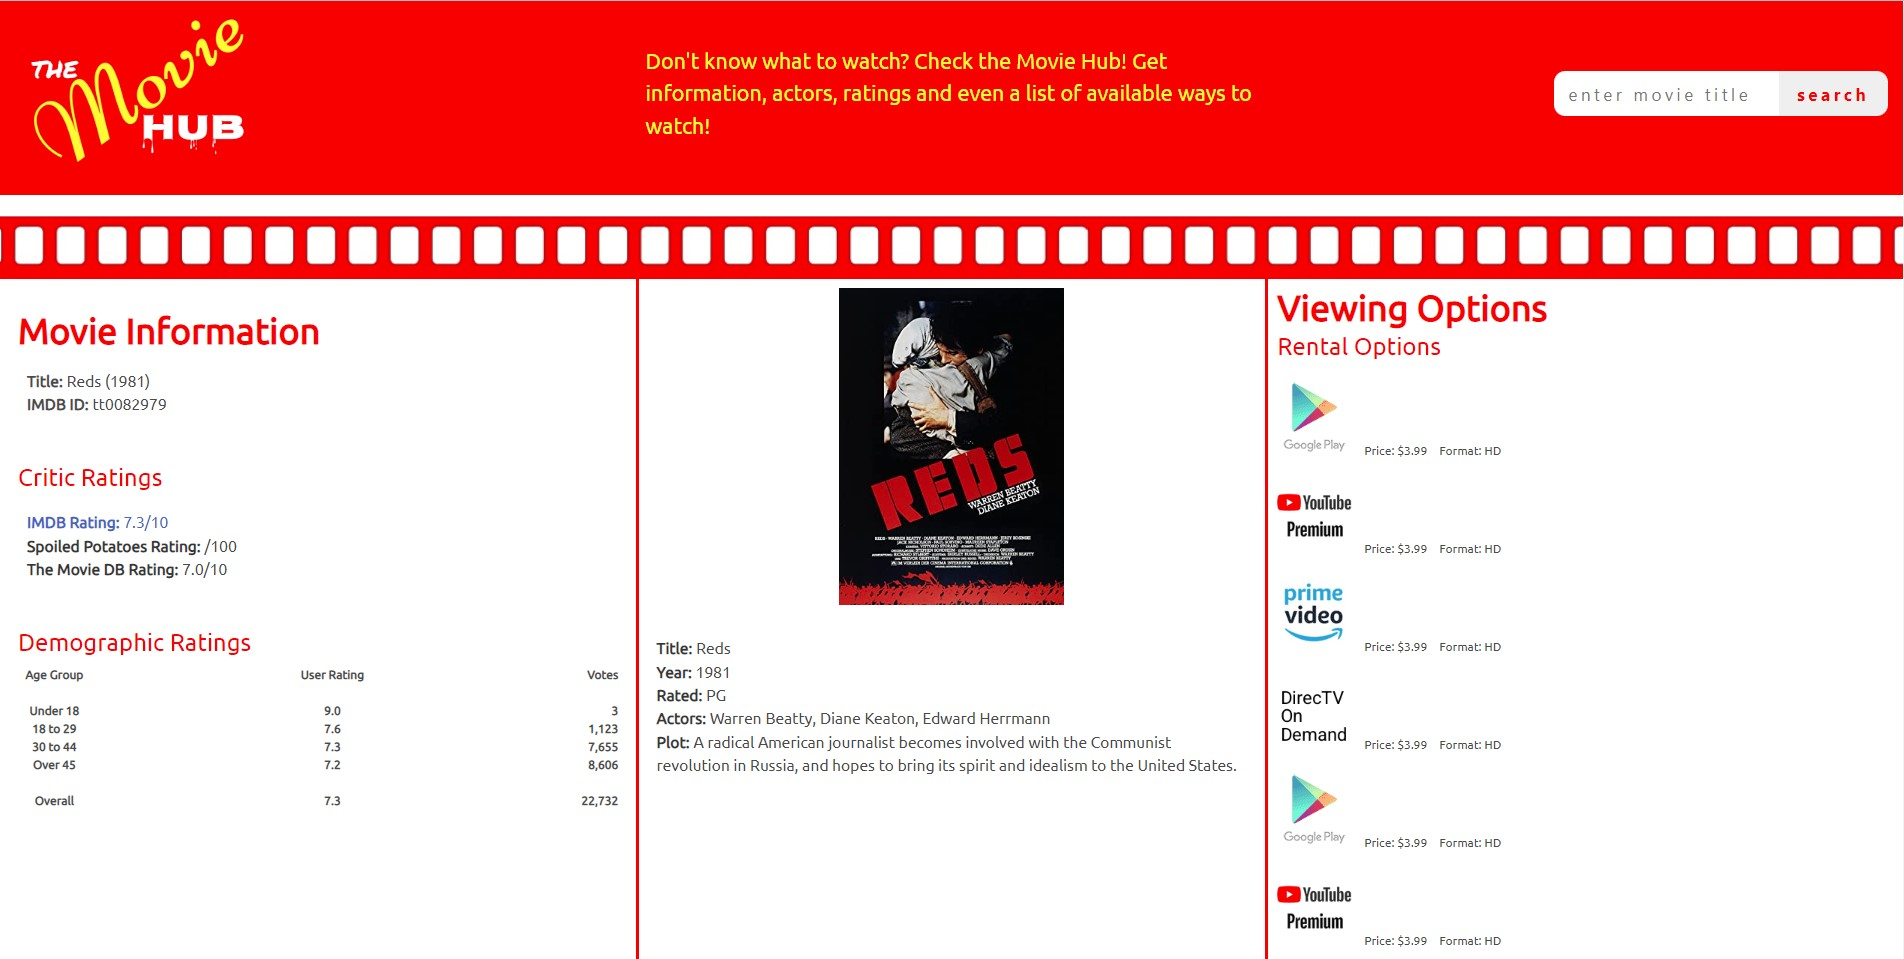
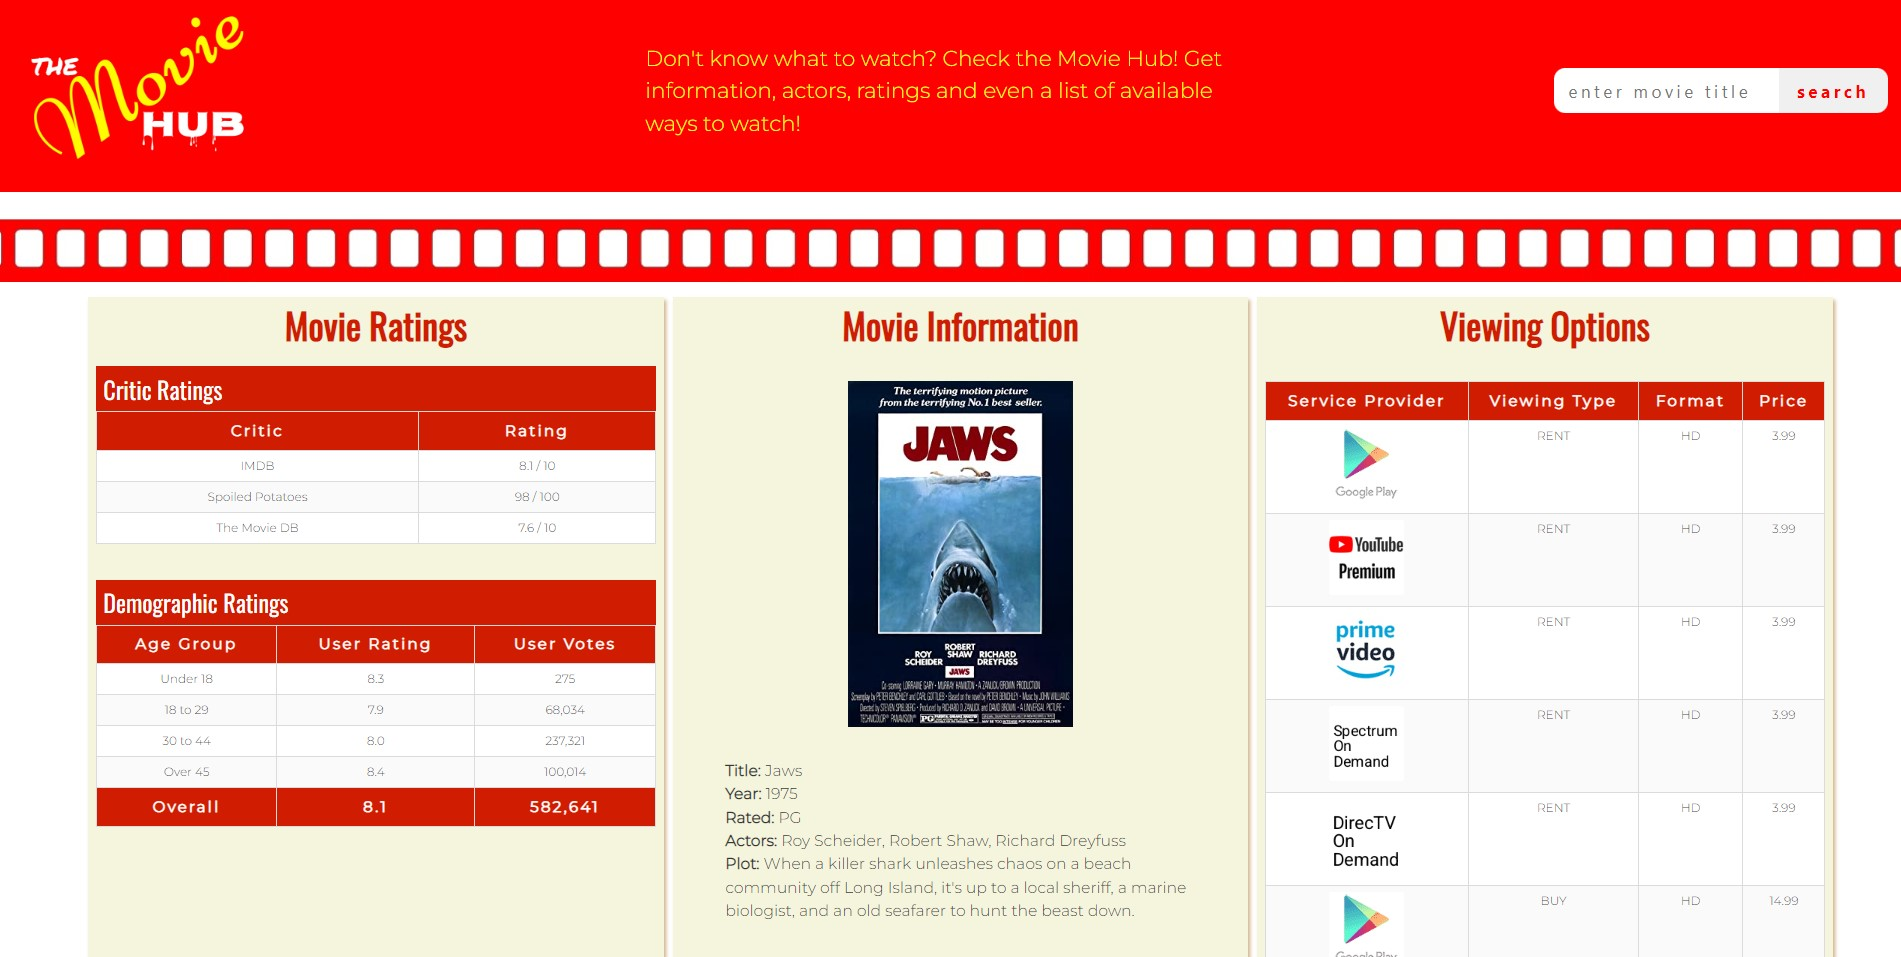
added colored background on data areas, changed fonts to Oswald/Montserrat

diff --git a/index.html b/index.html
@@ -9,6 +9,9 @@
     <link rel="preconnect" href="https://fonts.googleapis.com">
     <link rel="preconnect" href="https://fonts.gstatic.com" crossorigin>
     <link href="https://fonts.googleapis.com/css2?family=Ubuntu&display=swap" rel="stylesheet">
+    <link rel="preconnect" href="https://fonts.googleapis.com">
+    <link rel="preconnect" href="https://fonts.gstatic.com" crossorigin>
+    <link href="https://fonts.googleapis.com/css2?family=Montserrat:wght@300&family=Oswald&display=swap" rel="stylesheet">
 
     <!-- CSS Stylesheets -->
     <link rel="stylesheet" href="https://cdn.jsdelivr.net/npm/bulma@0.9.4/css/bulma-rtl.min.css">
@@ -41,20 +44,20 @@
 
             <div class="film-reel"></div>
             
-            <div class="columns main-content is-flex column mx-auto">
+            <div class="columns main-content is-11 column mx-auto">
 
                 <div class="column left-content is-4">
 
                     <!-- displays movie title, IMDBID title and three critic ratings -->
-                    <div id="ratings-hardcoded-doesnt-need-id" class="movie-ratings title is-2 mb-6">Movie Ratings</div>
+                    <div id="ratings-hardcoded-doesnt-need-id" class="movie-ratings title is-1 mb-6">Movie Ratings</div>
                 
-                    <div id="hardcoded-doesnt-need-id" class="subtitle is-4 mb-0">Critic Ratings</div>
+                    <div id="hardcoded-doesnt-need-id" class="subtitle is-3 mb-0">Critic Ratings</div>
                     <div>
                         <table class="table is-striped is-bordered is-fullwidth has-text-centered">
                             <thead>
                                 <tr>
                                     <th class="has-text-centered has-text-white is-size-5">Critic</th>
-                                    <th class="has-text-centered has-text-white is-size-5">Critic Rating</th>
+                                    <th class="has-text-centered has-text-white is-size-5">Rating</th>
                                     <!-- <th class="has-text-centered">User Votes</th> -->
                                 </tr>
                             </thead>
@@ -89,7 +92,7 @@
                     </div>
                     <!-- was set to user-ratings to bold text in "table" -->
                     <!-- bottom left-content box that displays demographics ratings -->
-                    <div id="demo-ratings-header" class="subtitle is-4 pt-6 mb-0">Demographic Ratings</div>
+                    <div id="demo-ratings-header" class="subtitle is-3 mt-6 mb-0">Demographic Ratings</div>
                     <div id="demo-ratings" class="demo-ratings is-flex is-justify-content-space-between has-text-centered">
                         
                         <div id="age-group">
@@ -152,21 +155,21 @@
                 </div>
             
             
-                <div class="column center-content is-4">
+                <div class="column center-content is-4 mx-3">
                     <!-- <div class="movie-info"></div> this isn't used, check first before deleting-->
-                    <div class="title is-2 mb-6">Movie Information</div>
+                    <div class="title is-1 mb-6">Movie Information</div>
 
                     <!-- displays poster and movie info underneath poster -->
                     <div id="display-card">
                         <div id="poster" class="has-text-centered"></div>
-                        <div id="movie-info" class="movie-info"></div>
+                        <div id="movie-info" class="movie-info  px-6"></div>
                     </div>
                 </div>
             
         
                 <div class="column right-content is-4">
                     <!-- <p class="title is-1"></p> -->
-                    <div id="view-options-heading-hardcoded-doesnt-need-id" class="title is-2 mb-6">Viewing Options</div>
+                    <div id="view-options-heading-hardcoded-doesnt-need-id" class="title is-1 mb-6">Viewing Options</div>
                     
                     <!-- <p id="rent-options-heading" class="subtitle is-3"></p> -->
                     <!-- <div id="xrent-viewing-options"> -->
@@ -183,8 +186,9 @@
 
                     <!-- </div> -->
                     
-
+                    <div class="table-scroll">
                     <table class="table is-striped is-bordered is-fullwidth has-text-centered">
+                        
                         <thead>
                             <tr>
                                 <th class="has-text-centered has-text-white is-size-5">Service Provider</th>
@@ -197,32 +201,9 @@
                         <tbody id="viewing-options">
 
                         </tbody>
-                        
-                        <!-- <div class="title is-3">Renting Options - Joe</div>
-                        <tbody id="rent-viewing-options">
-                        
-                        </tbody>
-
-                        <div class="title is-3">Buying Options - Joe</div>
-                        <tbody id="buy-viewing-options">
-
-                        </tbody>
-
-                        <div class="title is-3">Subscription Options - Joe</div>
-                        <tbody id="sub-viewing-options">
-
-                        </tbody> -->
-
-                        <!-- <tfoot>
-                            <tr>
-                                <th class="has-text-centered is-size-5">Overall</th>
-                                <th id="overall-user-rating" class="has-text-centered is-size-5"></th>
-                                <th id="overall-user-votes" class="has-text-centered is-size-5"></th>
-                            </tr>
-                        </tfoot> -->
 
                     </table>
-
+                    </div>
                     
                     
                     

diff --git a/css/style.css b/css/style.css
@@ -1,7 +1,11 @@
+:root {
+    --heading-text: Oswald;
+    --content-text: Montserrat;
+}
+
 * {
     padding: 0;
     margin: 0;
-    font-family: Ubuntu;
 }
 
 /* .main-content {
@@ -9,7 +13,7 @@
 } */
 
 body {
-    background-color: ;
+    font-family: var(--content-text);
 }
 
 
@@ -20,7 +24,7 @@ header {
 
 header p {
     font-size: 1.8rem;
-    color: yellow;
+    color: #FFFB35;
 }
 
 header img {
@@ -86,8 +90,19 @@ footer {
 } */
 
 .left-content, .center-content {
-    border-right: 5px solid #D01C00;
+    xborder-right: 5px solid #D01C00;
 }
+
+.left-content, .center-content, .right-content {
+    xborder: 2px solid navy;
+    padding: 10px;
+    background-color: beige;
+    box-shadow: 3px 4px 5px tan;
+}
+
+/* .center-content {
+    margin: 0 10px;
+} */
 
  /* .demo-ratings {
     padding: 10px;
@@ -95,13 +110,28 @@ footer {
     width: 100%;
 } */
 
-.title, .subtitle, td {
+.title, .subtitle, xtd, .xmovie-info {
     color: #D01C00;
+}
+
+.title, .subtitle {
+    font-family: var(--heading-text);
+}
+
+.title {
+    text-align: center;
+}
+
+.subtitle {
+    background-color: #D01C00;
+    color: white;
+    padding: 10px;
+    margin: 0;
 }
 
 th  {
     background-color: #D01C00;
-    letter-spacing: .5rem;
+    letter-spacing: .2rem;
 }
 
 /* .center-content {
@@ -109,6 +139,10 @@ th  {
     color: white;
 } */
 
+.table-scroll {
+    overflow-x: auto;
+    /* overflow-y: auto; */
+}
 
 
 
@@ -123,7 +157,7 @@ th  {
 
 
 @media screen and (max-width: 1024px) {
-    
+
 
     /* why does input-elements affect all of the other layouts */
     .input-elements {
@@ -155,17 +189,6 @@ th  {
 
 
 
-
-
-
-
-
-
-
-
-
-
-
 @media screen and (max-width: 820px) {
     
     .main-content {
@@ -183,32 +206,11 @@ th  {
     }
     
     .left-content, .center-content {
-        border-right: none;
-        border-bottom: 5px solid red;
+        xborder-right: none;
+        xborder-bottom: 5px solid red;
     }
 
-    /* header nav form input {
-        padding: 10px 15px;
-        border-radius: 15px;
-        border: none;
-        margin-right: 10px;
-    }
-    
-    header nav form button {
-        padding: 10px 25px;
-        border-radius: 15px;
-        border: none;
-        font-weight: bold;
-        color: red;
-        margin: 10px 10px 0 0;
-    } */
 }
-
-
-
-
-
-
 
 
 
@@ -220,9 +222,7 @@ th  {
     }
 
     header {
-        /* justify-content: space-between; */
         flex-direction: column;
-        /* fix this */
         flex-wrap: wrap;
     }
 
@@ -236,24 +236,22 @@ th  {
         letter-spacing: 1px;
     }
 
-    .left-content, .center-content {
-        border-right: none;
-        border-bottom: 5px solid red;
+    .left-content {
+        margin: 20px 0;
     }
 
-    /* header nav form input {
-        padding: 15px 20px;
-        border-radius: 15px 0 0 15px;
-        border: none;
+    .center-content {
+        /* margin: 20px 0; */
+        order: -1;
     }
-    
-    header nav form button {
-        padding: 15px 25px;
-        border-radius: 0 15px 15px 0;
-        border: none;
-        font-weight: bold;
-        color: red;
-    } */
+
+    .right-content {
+        margin: 0;
+    }
+
+    th {
+        letter-spacing: 0;
+    }
 
 }
 

diff --git a/README.md b/README.md
@@ -1,15 +1,37 @@
 # The Movie Hub (movie-app)
 ## Project #1
-Project #1 required us to work in a group. Our group was Susan, James, Raf and myself. 
+Project #1 required us to work in a group. Our group was Susan, James, Raf and myself. I contributed to the JavaScript and APIs for the group project as well as minor fixes on the HTML/CSS files.
+
+Since I am planning on doing freelance web development after this course, I need to get experience in all aspects of the development process. This repo is the result. All aspects of this site have been completed by me.
 
 ## Screenshots
+Main Desktop Example
 ![The Movie Hub screenshot](images/screenshot-desktop-example.jpg)
+
+Main Deskto Example 2
+![The Movie Hub screenshot](images/screenshot-desktop-example1.jpg)
+
+Main Mobile Example 1   
+![The Movie Hub screenshot](images/screenshot-mobile-example1.jpg)
+
+Main Mobile Example 2  
+![The Movie Hub screenshot](images/screenshot-mobile-example2.jpg)
+
+Main Mobile Example 3  
+![The Movie Hub screenshot](images/screenshot-mobile-example3.jpg)
+
+Main Mobile Example 4  
+![The Movie Hub screenshot](images/screenshot-mobile-example4.jpg)
+
 
 ## Live Site
 [The Movie Hub (Movie-App Live Site)](https://joebarbone.github.io/movie-app/)
 
 
 ## Summary/Languages
+This project was challenging due to the fact that we were required to learn a new framework. The framework we chose was Bulma. I like some aspects of Bulma but prefer Bootstrap in others. The ease of "columns" and "column" to create the grid is nice within Bulma, but overall I think I prefer using "container", "row" and "col" in Bootstrap. It may be because I have more experience with Bootstrap, but for me, Bootstrap definitely handles responsiveness better. Again, I'm sure this was due to my lack of knowledge using Bulma. As I continue to use it, I will most likely get as familiar with it as I am using Bootstrap.
+
+The following languages/technologies were used in the creation of this project:
 * HTML
 * CSS
 * Bulma Framework
@@ -18,4 +40,8 @@ Project #1 required us to work in a group. Our group was Susan, James, Raf and m
 * LocalStorage within browser
 
 ## Acknowledgements
-list APIs here
+[OMDB API](https://omdbapi.com) - Provides Poster, Title, Year, Rated, Actors, Plot  
+[IMDB-API](https://imdb-api.com) - Provides critic ratings and demographic ratings  
+[WatchMode API](https://api.watchmode.com) - Provides streaming availability data  
+
+
